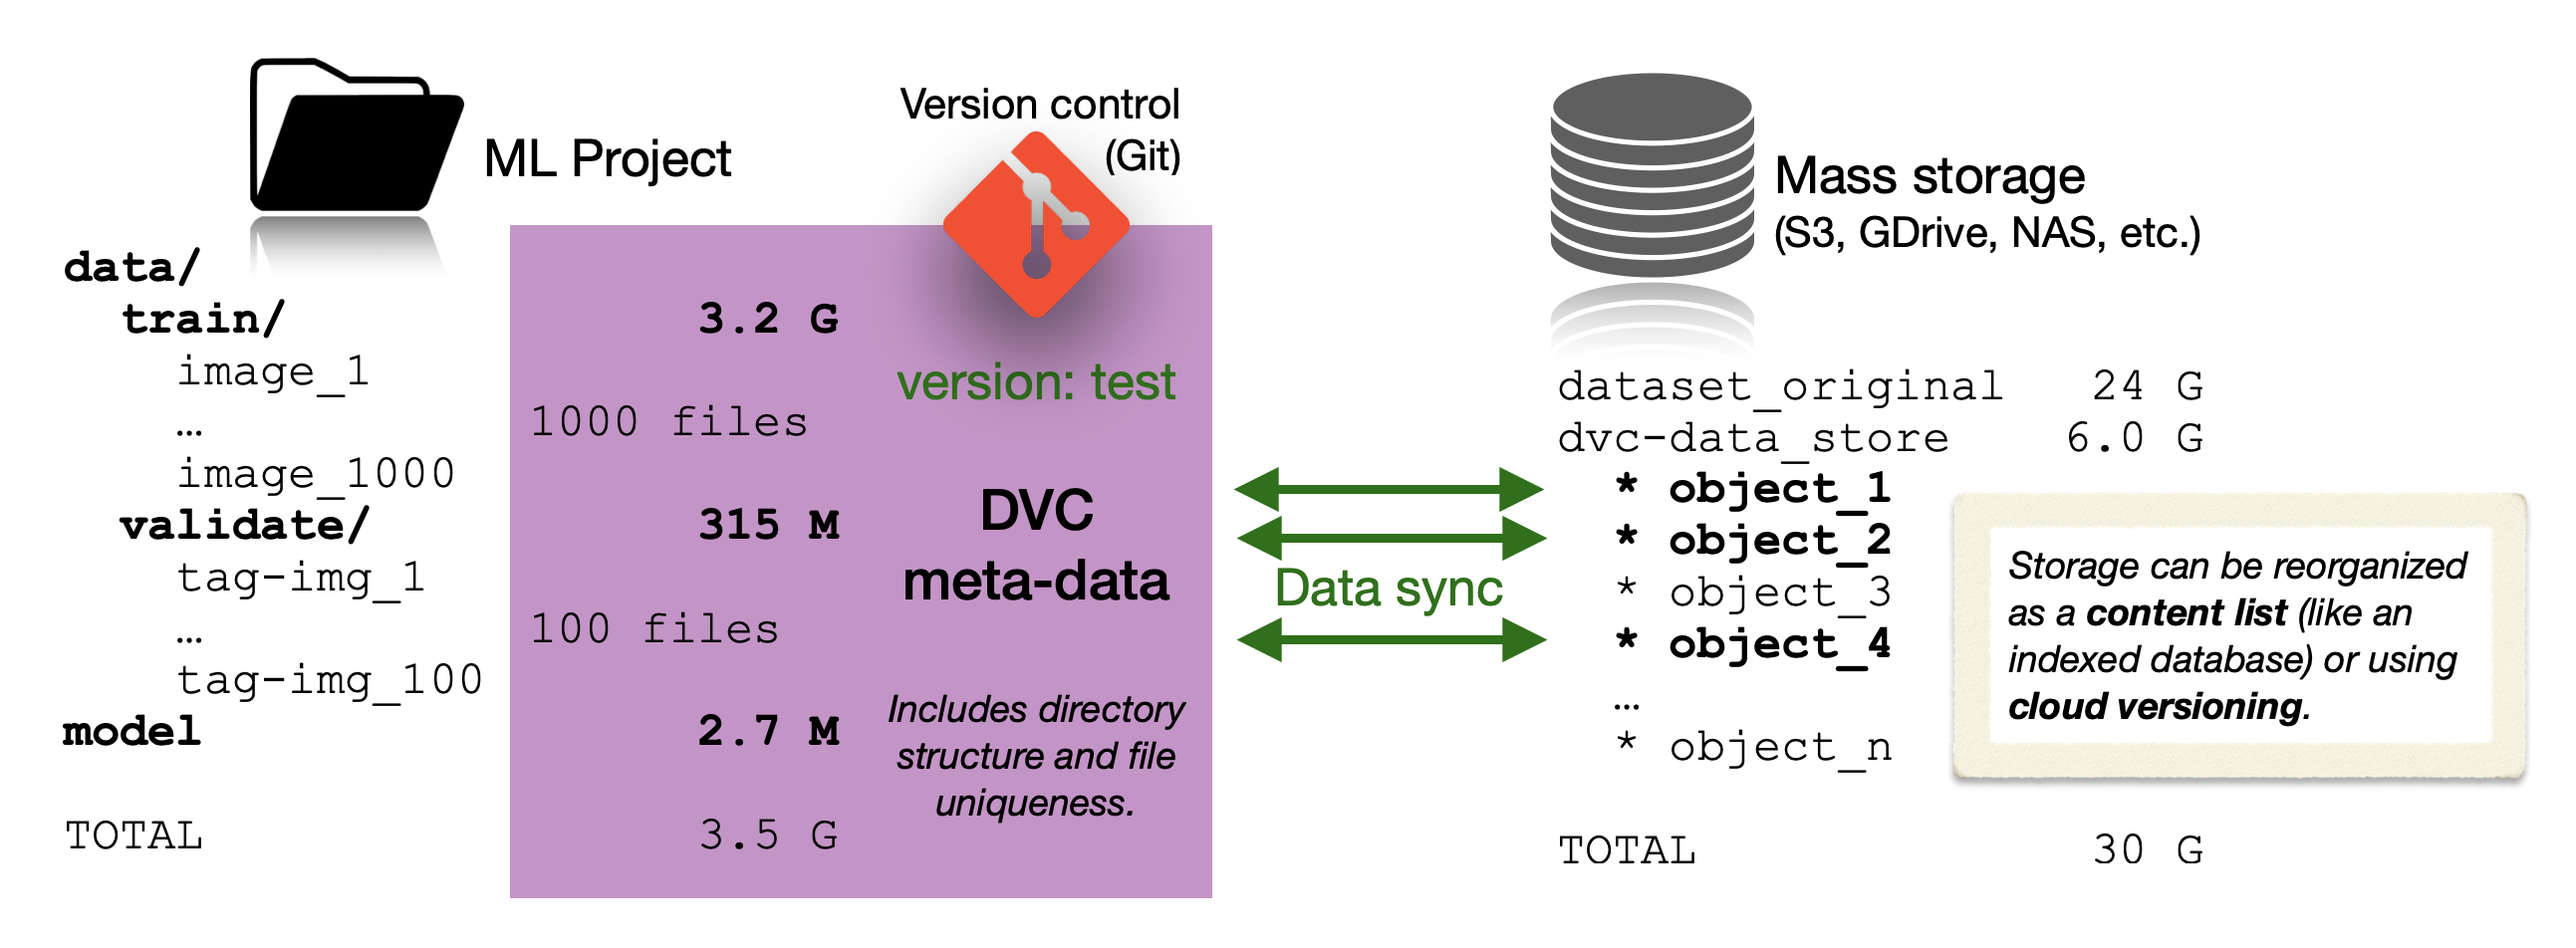
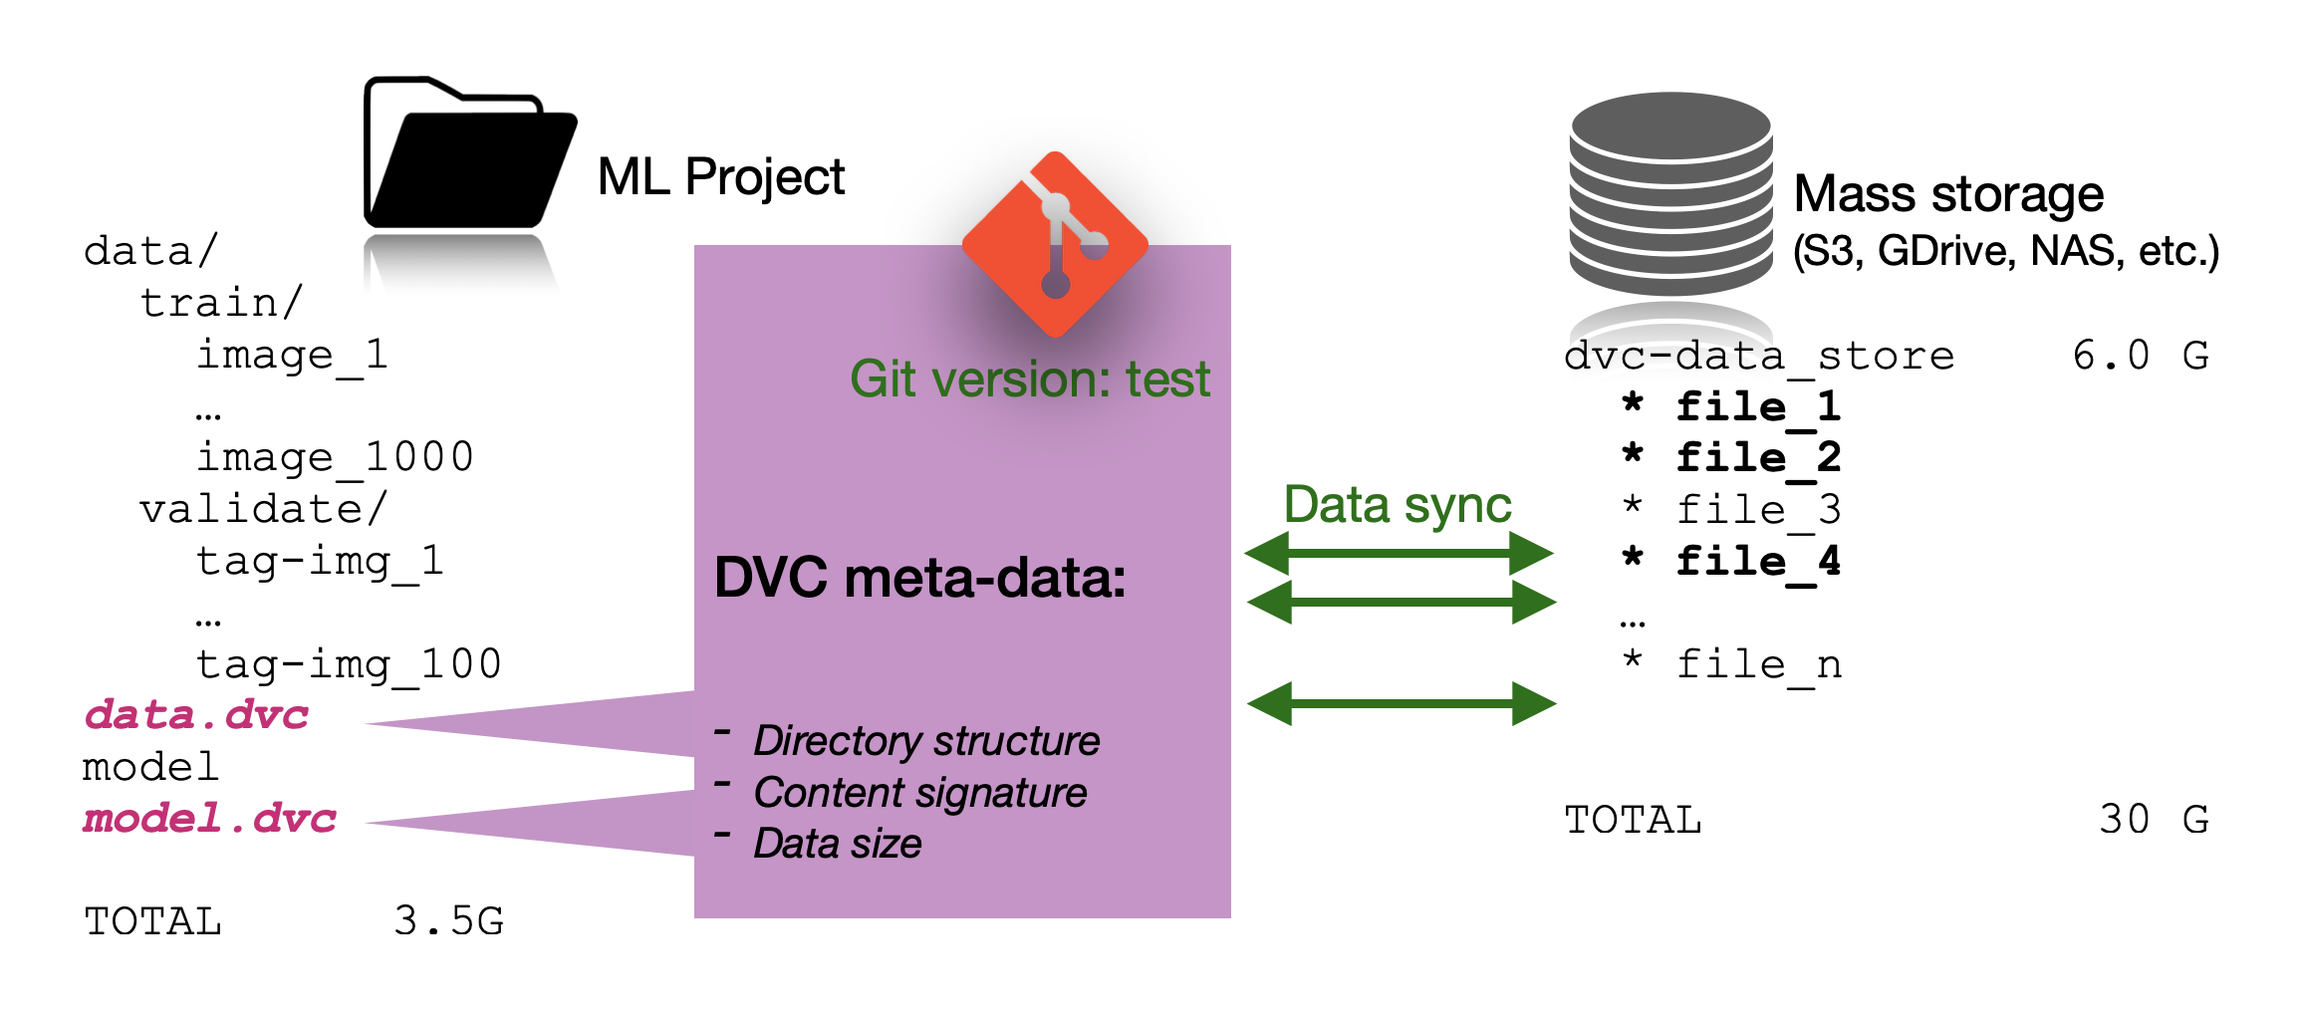
guide: udpate text and 2nd figure (Data Mgmt)

diff --git a/content/docs/user-guide/data-management/index.md b/content/docs/user-guide/data-management/index.md
@@ -4,37 +4,25 @@
 ## Data Management for Machine Learning
 -->
 
-Where and how to store datasets and ML model files is one of the first decisions
-your team will face. But as time progresses, unrecognized files may end up
-scattered throughout several buckets. Multiple data versions coexist, causing
-errors, data leakage, and inefficient storage. The project evolution is not
-easily to track. What was the name of the best model? Can others reproduce your
-results? _Example:_
-
-<!-- (not secure) -->
+Where and how to store data and ML model files is one of the first decisions
+your team will face. But traditional back-up strategies do not fit the data
+science lifecycle. Large files end up scattered throughout several buckets.
+Overlapping dataset versions coexist, causing leakage and inefficient use of
+space. The project evolution is harder to track. What was the name of the best
+model? Is it safe to delete `huge_split.zip`? Can others reproduce my results?
 
 ![Direct access storage](/img/direct_access_storage.png) _The S3 bucket on the
 right is shared (and bloated) by several people and projects. You need to know
 the exact location of the correct files, and use cloud-specific tools (e.g. AWS
 CLI) to access them directly._
 
-<!--
-
-1.1 [x] unrecognized files
-1.2 [/] may end up scattered throughout multiple buckets
-
-2.1 [/] Multiple data versions coexist, causing errors
-2.2 [x] and inefficient storage
-
--->
-
 To maintain control and visibility over all your data and models, DVC stores
-large files and directories for you in an [organized and efficient] way. It
-tracks them by logging their locations and unique descriptions in text-based
-[metafiles]. _Click on **v1.0** and **test** below for an example:_
+large files and directories for you in an [organized] way. It tracks them by
+logging their locations and unique descriptions in text-based [metafiles].
+_Click on **v1.0** and **test** below for an example:_
 
-[organized and efficient]:
-  /doc/user-guide/data-management/large-dataset-optimization
+[organized]:
+  /doc/user-guide/project-structure/internal-files#structure-of-the-cache-directory
 [metafiles]: /doc/user-guide/project-structure
 
 <toggle>
@@ -58,14 +46,6 @@ size; You access them using DVC [synchronization] features._
 [synchronization]:
   /doc/start/data-management/data-versioning#storing-and-sharing
 
-<!--
-
-3.1 [x] The project evolution is not easily to track
-
-4 [x] Can others reproduce your results?
-
--->
-
 Committing DVC metafiles [to Git] along your ML source files creates
 [reproducible] project versions: Its history becomes easy to review, rewind, and
 repeat going forward (by anyone). There's no need to come up with naming schemes
@@ -86,95 +66,37 @@ This approach requires a few key changes to your workflow:
 
 ## More details and benefits
 
-<!-- distribute parts or entire copies (of the cache). -->
-
-<!-- New or updated files are appended to storage (preventing duplicates), but nothing is deleted by default. -->
-
-<!-- We call this key process _data codification_. -->
-
-<!-- another layer of structure along the time dimension (Git history) -->
-
-<!--
-Every file and directory that matters at a given time is tracked by DVC.
-And Git let's you record of many such times (project versions).
--->
-
-<!-- This allows datasets to exist in a <abbr>project</abbr> regardless of where and how they're actually stored. -->
-
-<!--
-It takes a snapshot of the data and saves it in text files.
-These become placeholders for large files and directory in your project.
-Data is cached and linked back (virtual).
-Small workspace
--->
-
-![DVC data process](/img/dvc-data-process.png) _Overall mechanism for managing
-data with DVC_
+<!-- Full diagram -->
 
 When DVC tracks existing, new, or updated data in your <abbr>project</abbr>, it
-captures a unique description of that data in tiny [metafiles] (e.g.
-`mydata.dvc`). These placeholders point to the underlying files, which DVC moves
-to a [content-addressable] <abbr>cache</abbr> (eliminating duplicates). File
-links are created in your <abbr>workspace</abbr> so you continue working with
-the expected files transparently.
-
-[content-addressable]: https://en.wikipedia.org/wiki/Content-addressable_storage
+writes a unique description about it to tiny [metafiles] (e.g. `dataset.dvc`).
+These include a content signature that is used to index a data
+<abbr>cache</abbr>. The underlying files are appended there (preventing
+duplicates and deletions) and replaced by file links in your
+<abbr>workspace</abbr>: You continue using the data normally.
 
 <details>
 
 ### Click to learn about _data codification_.
 
-DVC replaces data in the project with code-like metafiles (and file links, as
-explain above). We could say that the data gets "codified".
+DVC replaces data in the project with code-like metafiles (and file links) as
+explain above. We could say that the data gets "codified". This in effect
+creates references from your workspace to the cache so that DVC can manage the
+data transparently.
 
 </details>
 
-Separating the description of your data from its storage lets you treat data as
-a first-class citizen in a code repository, by committing it with [Git version
-control] along with ML source code, configuration files, etc. This keeps the
-workspace small and clean -- no need for special file names or nested folders to
-organize data or model variations.
+Separating data description from storage lets you treat it as a first-class
+citizen in any code repository by committing the metafiles with [Git version
+control] along with other small files (code, config, etc.). This keeps the
+project complete and small at the same time. It's also cleaner since there's no
+need for special file names like `2020-03_training_split (256x256)` to organize
+variations (use repo branches or tags instead).
 
 [git version control]:
   https://git-scm.com/book/en/v2/Getting-Started-About-Version-Control
 
-<!-- Sample code/terminal blocks... -->
-
-<toggle>
-<tab title="Yesterday">
-
-```cli
-$ ls -hop
-total 228B
-    0B  A
-  128B  b/
-  160B  c/
-```
-
-</tab>
-<tab title="Today">
-
-```cli
-$ ls -hop
-total 228K
-    0K  A
-  128K  b/
-  160K  c/
-```
-
-</tab>
-<tab title="Tomorrow">
-
-```cli
-$ ls -hop
-total 228M
-    0M  A
-  128M  b/
-  160M  c/
-```
-
-</tab>
-</toggle>
+<!-- Sample code/terminal blocks (to copy/paste?) -->
 
 Adopting DVC's approach requires a low effort and has many benefits (recap):
 
@@ -185,6 +107,8 @@ migrate across platforms ([multiple providers supported]).
 [multiple providers supported]:
   /doc/command-reference/remote/add#supported-storage-types
 -->
+
+<!-- You can also distribute parts or entire copies of an independent data caches. -->
 
 - Easily manage **data as code** and [optimize space usage] automatically.
 - DVC keeps track of large files and directories for you, mapping them between
@@ -230,7 +154,4 @@ Microsoft Azure, among [many more].
 
 [config files]: /doc/user-guide/project-structure/internal-files
 [many more]: /doc/command-reference/remote/add#supported-storage-types
-
-[]:
-  /doc/user-guide/project-structure/internal-files#structure-of-the-cache-directory
 -->

diff --git a/content/docs/user-guide/project-structure/internal-files.md b/content/docs/user-guide/project-structure/internal-files.md
@@ -74,10 +74,8 @@ operation.
 
 ## Structure of the cache directory
 
-The DVC cache is a
-[content-addressable storage](https://en.wikipedia.org/wiki/Content-addressable_storage)
-(by default in `.dvc/cache`), which adds a layer of indirection between code and
-data.
+The DVC cache is a [content-addressable storage] (by default in `.dvc/cache`),
+which adds a layer of indirection between code and data.
 
 There are two ways in which the data is <abbr>cached</abbr>, depending on
 whether it's a single file, or a directory (which may contain multiple files).
@@ -85,6 +83,9 @@ whether it's a single file, or a directory (which may contain multiple files).
 Note files are renamed, reorganized, and directory trees are flattened in the
 cache, which always has exactly one depth level with 2-character directories
 (based on hashes of the data contents, as explained next).
+
+[content-addressable storage]:
+  https://en.wikipedia.org/wiki/Content-addressable_storage
 
 ### Files
 
